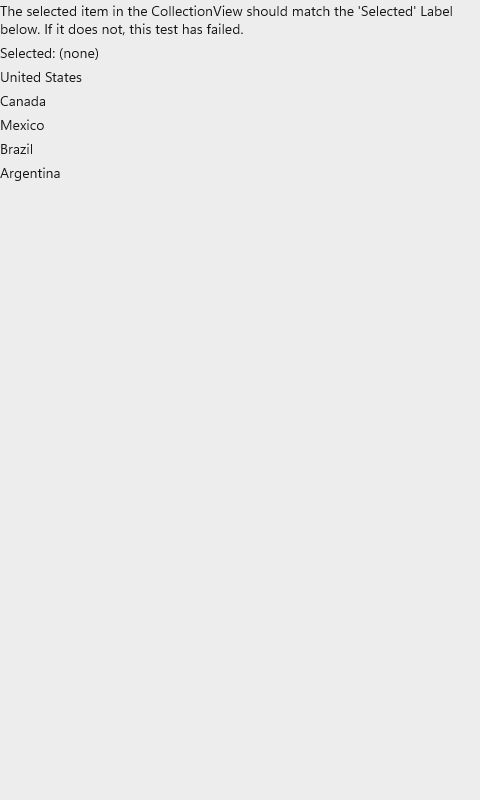
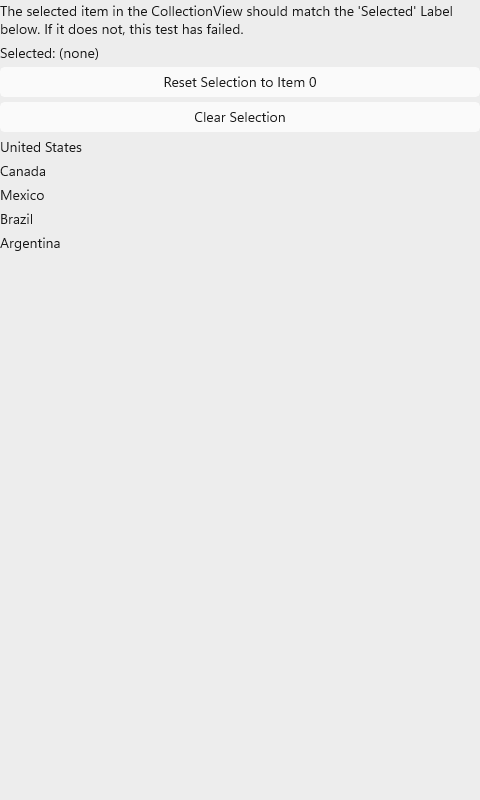
fix(gallery): add missing Reset/Clear buttons to single_bound_selection cpp page
The port page defined reset_selection()/clear_selection() but never created the
buttons that drive them — the C# SingleBoundSelection.xaml has 'Reset Selection to
Item 0' + 'Clear Selection' buttons between the readout and the CollectionView. Add
them (command-wired to the existing handlers) so the cpp render matches MAUI.

Changed region(s): [[0.0, 0.0938, 0.1562, 0.3125], [0.3438, 0.0938, 0.6562, 0.1562]]

diff --git a/port/cpp/examples/gallery/pages/single_bound_selection_page.hpp b/port/cpp/examples/gallery/pages/single_bound_selection_page.hpp
@@ -32,6 +32,7 @@
 #include <string>
 #include <vector>
 
+#include "maui/controls/button.hpp"
 #include "maui/controls/content_page.hpp"
 #include "maui/controls/items/boxed_item.hpp"
 #include "maui/controls/items/collection_view.hpp"
@@ -87,8 +88,18 @@ namespace maui::samples
 
             update_readout(list_.selected_item()); // initial "Selected: " (nothing selected yet)
 
+            // The two selection-driving buttons (SingleBoundSelection.xaml: Reset / Clear). Their Clicked
+            // handlers are the C# ResetClicked / ClearClicked — the back leg of the TwoWay SelectedItem
+            // binding, pushing Items[0] / null into the CollectionView.
+            reset_button_.set_text("Reset Selection to Item 0"); // Clicked="ResetClicked"
+            reset_button_.command = [this] { reset_selection(); };
+            clear_button_.set_text("Clear Selection"); // Clicked="ClearClicked"
+            clear_button_.command = [this] { clear_selection(); };
+
             stack_.add(instructions_);
             stack_.add(readout_);
+            stack_.add(reset_button_);
+            stack_.add(clear_button_);
             stack_.add(list_);
             page_.set_content(stack_);
         }
@@ -167,6 +178,8 @@ namespace maui::samples
         maui::controls::vertical_stack_layout stack_;
         maui::controls::label instructions_;
         maui::controls::label readout_;
+        maui::controls::button reset_button_;
+        maui::controls::button clear_button_;
         maui::controls::collection_view list_;
     };
 } // namespace maui::samples
